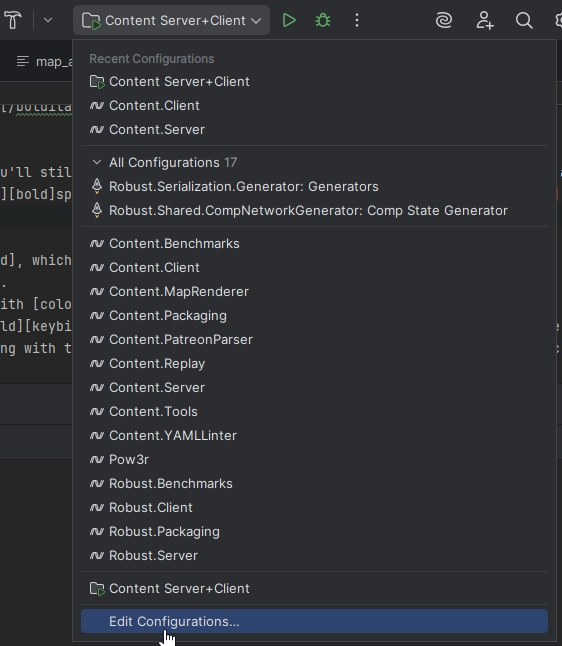
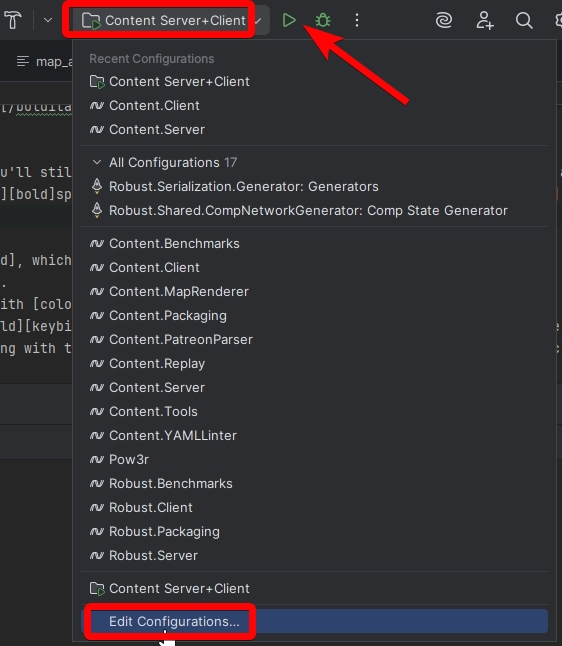
Compound configuration guide tweak

Changed region(s): [[0.1512, 0.9288, 0.484, 1.0], [0.0907, 0.0, 0.4537, 0.0619], [0.5445, 0.031, 0.726, 0.1858]]

diff --git a/src/en/general-development/setup/setting-up-a-development-environment.md b/src/en/general-development/setup/setting-up-a-development-environment.md
@@ -137,7 +137,12 @@ There's also definitely some way to run two commands at the same time, but you s
 
 ### JetBrains Rider
 
-In Rider you can create a "compound configuration" to run or debug both client and server at the same time. Quite convenient! To do that, edit configurations from the drop-down menu at the top, and make sure the compound configuration includes .NET Project 'Content.Client' and .NET Project 'Content.Server'. Then, it from the dropdown custom configuration and press Shift+F10 or click the play button to run it. That's it!
+To run or debug test builds in Rider more easily, you can create a "compound configuration" which runs the client and server at the same time. Quite convenient!
+Just follow these steps or replicate the screenshots below:
+1. Edit configurations from the dropdown menu at the top.
+2. Add the .NET Projects 'Content.Client' and 'Content.Server' to the custom compound configuration by clicking "+" and click OK.
+3. Make sure the custom configuration is chosen from the dropdown menu and the icon has a green symbol. If it's red, go back to step 1.
+4. Press Shift+F10 or click the play button to run it. That's it!
 
 ![](../../assets/images/setup-rider-configurations-1.jpg)
 ![](../../assets/images/setup-rider-configurations-2.jpg)
